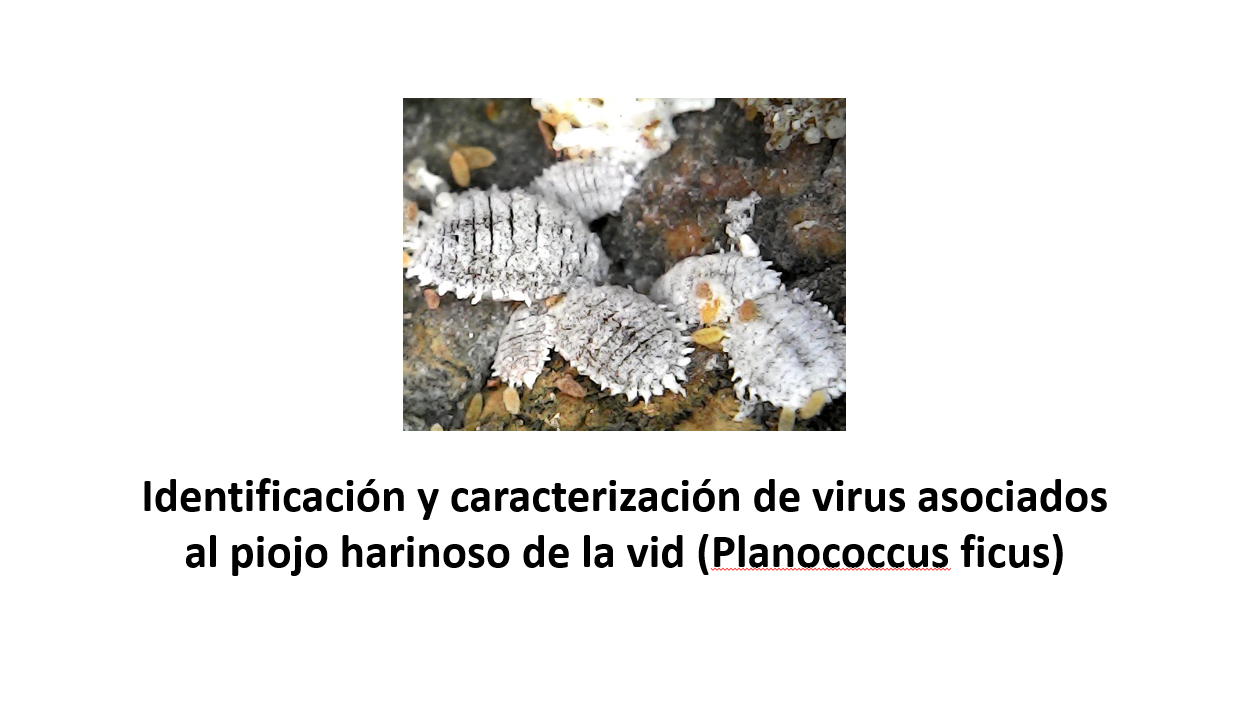
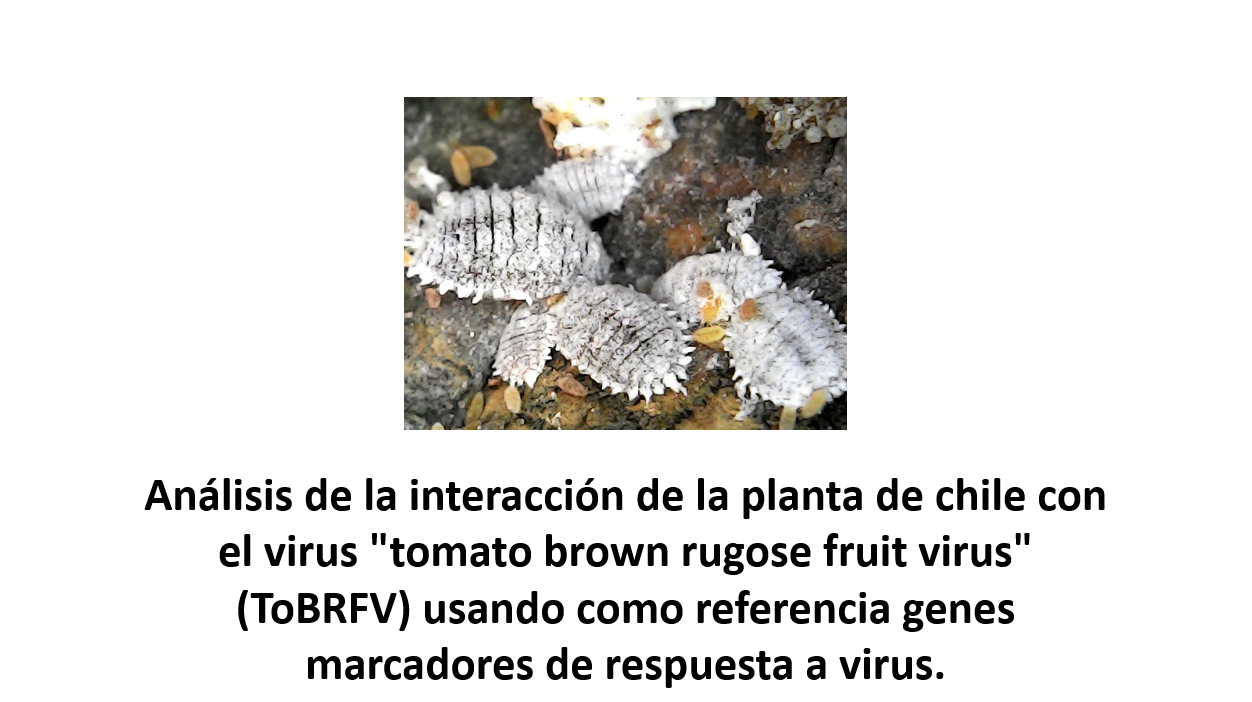
Add files via upload

diff --git a/index.html b/index.html
@@ -144,7 +144,7 @@
 
     <!-- Proyectos -->
     <section id="proyectos-recientes" class="proyectos-recientes seccion-clara d-flex flex-column">
-      <h2 class="seccion-titulo texto-negro">Proyectos recientes</h2>
+      <h2 class="seccion-titulo texto-negro">Proyectos de investigación recientes</h2>
       <!-- Galeria de Proyectos -->
       <div class="container text-center proyectos-contenedor">
         <div class="row">
@@ -155,7 +155,7 @@
               <div class="overlay">
                 <h4>Epidemiología de virus causantes de las enfermedades de enrollamiento de la hoja y mancha roja de la vid en Baja California. </h4>
                 <div class="iconos-contenedor">
-                  <a href="https://anabeleex-virolab-interfaz-virus-rurwnp.streamlit.app/" target="_blank" rel="noopener noreferrer">
+                  <a href="pr1.html" target="_blank" rel="noopener noreferrer">
                     <i class="bi bi-arrow-right-circle-fill"></i>
                   </a>
                 </div>
@@ -168,7 +168,7 @@
               <div class="overlay">
                 <h4>Determinación de vectores potenciales para el virus de la mancha roja de la vid en Baja California                </h4>
                 <div class="iconos-contenedor">
-                  <a href="https://anabeleex-virolab-interfaz-virus-rurwnp.streamlit.app/" target="_blank" rel="noopener noreferrer">
+                  <a href="pr2.html" target="_blank" rel="noopener noreferrer">
                     <i class="bi bi-arrow-right-circle-fill"></i>
                   </a>
                 </div>
@@ -179,9 +179,9 @@
             <div class="proyecto">
               <img src="imagenes/pr3.png" alt="Proyecto 3">
               <div class="overlay">
-                <h4>Identificación y caracterización de virus asociados al piojo harinoso de la vid (Planococcus ficus)                </h4>
+                <h4>Análisis de la interacción de la planta de chile con el virus "tomato brown rugose fruit virus" (ToBRFV) usando como referencia genes marcadores de respuesta a virus. </h4>
                 <div class="iconos-contenedor">
-                  <a href="https://anabeleex-virolab-interfaz-virus-rurwnp.streamlit.app/" target="_blank" rel="noopener noreferrer">
+                  <a href="pr3.html" target="_blank" rel="noopener noreferrer">
                     <i class="bi bi-arrow-right-circle-fill"></i>
                   </a>
                 </div>
@@ -192,9 +192,9 @@
             <div class="proyecto">
               <img src="imagenes/pr4.png" alt="Proyecto 4">
               <div class="overlay">
-                <h4>Estudio de respuestas moleculares a la infección por tobamovirus                </h4>
+                <h4>Diversidad morfológica y taxonómica de partículas virales asociadas a Planococcus ficus de Ensenada Baja California            </h4>
                 <div class="iconos-contenedor">
-                  <a href="https://anabeleex-virolab-interfaz-virus-rurwnp.streamlit.app/" target="_blank" rel="noopener noreferrer">
+                  <a href="pr4.html" target="_blank" rel="noopener noreferrer">
                     <i class="bi bi-arrow-right-circle-fill"></i>
                   </a>
                 </div>
@@ -207,7 +207,7 @@
               <div class="overlay">
                 <h4> Biodiagnóstico de virus de vid </h4>
                 <div class="iconos-contenedor">
-                  <a href="https://anabeleex-virolab-interfaz-virus-rurwnp.streamlit.app/" target="_blank" rel="noopener noreferrer">
+                  <a href="pr5.html" target="_blank" rel="noopener noreferrer">
                     <i class="bi bi-arrow-right-circle-fill"></i>
                   </a>
                 </div>
@@ -455,6 +455,7 @@
             <p class="testimonio-texto">Estudiante de la Lic. en Bioingeniería, Universidad Autónoma de Baja California (UABC). Practicante en el Laboratorio de Virología Agrícola del CICESE. </p>
           </div>
       </div>
+  
         <button class="carousel-control-prev" type="button" data-bs-target="#testimonios-carrusel" data-bs-slide="prev">
           <span class="carousel-control-prev-icon" aria-hidden="true"></span>
           <span class="visually-hidden">Anterior</span>
@@ -503,7 +504,7 @@
             <h2 class="seccion-titulo">Tesis del grupo</h2>
             <p class="seccion-texto">
               Repositorio de tesis </p>
-              <a href="https://cicese.repositorioinstitucional.mx/jspui/handle/1007/2" target="_blank" rel="noopener noreferrer">
+              <a href="tesis.html" target="_blank" rel="noopener noreferrer">
                 <button type="button" class="btn btn-info">
                Tesis             
                 <i class="bi bi-arrow-right-circle-fill"></i>

diff --git a/tesis.html b/tesis.html
@@ -1,0 +1,31 @@
+<!DOCTYPE html>
+<html>
+  <head>
+    <title>TESIS | VIROLAB </title>
+    <link rel="icon" type="image/x-icon" href="imagenes/cicese.png">
+    <link rel="stylesheet" href="te.css">
+
+  </head>
+  <body>
+    
+
+    <a href="index.html"> 
+        <img src="imagenes/cicese.png" width="15%" alt="Logo de la página web" class="topimg">
+    </a>
+
+<h1>TESIS DE MAESTRÍA CONCLUIDAS</h1>
+<h2>Odett Mariana Sandez Salas (2021). “Evaluación comparativa de RT-PCR punto final, RT-PCR en tiempo real y RT-LAMP en el diagnóstico del virus GLRaV-3 asociado al enrollamiento de la hoja en plantas de vid”. CICESE. Fecha de titulación: diciembre 8, 2021. <a href="https://cicese.repositorioinstitucional.mx/jspui/handle/1007/3646">https://cicese.repositorioinstitucional.mx/jspui/handle/1007/3646</a>
+</h2>
+<h2>José Luis Duarte de Jesús (2020). “Identificación de secuencias genómicas virales en el piojo harinoso de la vid (Planococcus ficus Signoret, 1875) presente en viñedos de Ensenada, Baja California”. CICESE. Fecha de titulación: diciembre 10, 2020. <a href="https://cicese.repositorioinstitucional.mx/jspui/handle/1007/3372">https://cicese.repositorioinstitucional.mx/jspui/handle/1007/3372</a></h2> 
+ 
+<h1>TESIS DE LICENCIATURA CONCLUIDAS</h1>
+<h2>Francisto Javier Benjamín Cerezo Limón (2022). “Caracterización inicial del genoma del virus del piojo harinoso de la vid Planococcus ficus-associated reovirus 1 mediante técnicas moleculares”. Universidad de Guadalajara. CUCBA. Fecha de titulación: julio 15, 2022.</h2>
+<h2>Tonya Ivette Delgado Silva (2022). “Caracterización inicial de virus de vid del género Marafivirus en Baja California, México”. Universidad Veracruzana. Fecha de titulación: febrero 24, 2022. Mención Honorífica.</h2> 
+<h2>Ana Karen Palacios Gutiérrez (2019). “Identificación de geminivirus aislados de vid en Baja California”. UNAM ENES León. Fecha de titulación: diciembre 5, 2019. Mención Honorífica. <a href="https://repositorio.unam.mx/contenidos?c=EeZM4G&q=ana_._karen_._guti%C3%A9rrez_._palacios&t=search_0&as=0&d=false&a=0&v=1">https://repositorio.unam.mx/contenidos?c=EeZM4G&q=ana_._karen_._guti%C3%A9rrez_._palacios&t=search_0&as=0&d=false&a=0&v=1</a></h2>
+<h2>Karendy Michell Monroy Corral (2019). “Presencia de virus transmitidos por piojo harinoso (Planococcus ficus) en viñedos de Baja California”. Instituto Tecnológico de Tepic. Fecha de titulación: septiembre 13, 2019.</h2>
+    
+<a href="index.html" class="boton">Regresar</a>
+
+
+</body>
+</html>

diff --git a/pr4.html b/pr4.html
@@ -1,0 +1,35 @@
+<!DOCTYPE html>
+<html>
+  <head>
+    <title>TESIS | VIROLAB </title>
+    <link rel="icon" type="image/x-icon" href="imagenes/cicese.png">
+    <link rel="stylesheet" href="te.css">
+
+  </head>
+  <body>
+    
+
+    <a href="index.html"> 
+        <img src="imagenes/cicese.png" width="15%" alt="Logo de la página web" class="topimg">
+    </a>
+
+<h1>Diversidad morfológica y taxonómica de partículas virales asociadas a Planococcus ficus de Ensenada Baja California</h1>
+<h2>La caracterización de las partículas virales representa un punto clave durante el estudio de los virus, nos permite dilucidar las estrategias que este organismo toma durante sus procesos biológicos (Qin et al., 2019), desde el reconocimiento de su hospedante hasta la salida de su progenie al mismo tiempo es necesaria para una correcta identificación y clasificación taxonómica (Zhao et al., 2021).
+  <br>
+  <br>
+  Diversos criterios morfológicos presentes en las partículas virales desde sí posee envoltura o no, sus dimensiones, la densidad de las partículas y la naturaleza de su genoma, estos y más criterios son utilizados por el comité internacional de taxonomía de virus (ICTV) para la correcta clasificación taxonómica de virus (Lefkowitz et al., 2018).
+  <br>
+  <br>
+  Previos trabajos llevados a cabo en CICESE (Martinez-Mercado et al., 2022) donde se inicia la caracterización del viroma presente en la especie Planococcus ficus una especie de importancia económica y cultural que infesta los viñedos de Baja California.
+  <br>
+  <br>
+  Con este trabajo se genera un punto de partida que nos brinda información acerca de las posibles partículas virales presentes en este organismo, cabe mencionar que el trabajo de Martínez Mercado solo se reportaron los virus de RNA lo cual implica que aún se desconoce los virus de DNA presentes en este viroma.
+  <br>
+  <br>
+  Partiendo de la  información previa en este trabajo se busca la obtención y caracterización de las partículas virales  presentes en Planococcus ficus de esta forma se busca determinar la diversidad morfológica y taxonómica de los virus presentes en el organismo de interés.</h2>
+  
+<a href="index.html" class="boton">Regresar</a>
+
+
+</body>
+</html>

diff --git a/pr3.html b/pr3.html
@@ -1,0 +1,23 @@
+<!DOCTYPE html>
+<html>
+  <head>
+    <title>TESIS | VIROLAB </title>
+    <link rel="icon" type="image/x-icon" href="imagenes/cicese.png">
+    <link rel="stylesheet" href="te.css">
+
+  </head>
+  <body>
+    
+
+    <a href="index.html"> 
+        <img src="imagenes/cicese.png" width="15%" alt="Logo de la página web" class="topimg">
+    </a>
+
+<h1>Análisis de la interacción de la planta de chile con el virus "tomato brown rugose fruit virus" (ToBRFV) usando como referencia genes marcadores de respuesta a virus</h1>
+<h2>El virus del fruto rugoso marrón del tomate (ToBRFV), es un tobamovirus que afecta plantas de la familia Solanaceae, principalmente tomate y chile, y tiene una distribución global. ToBRFV ha roto la resistencia conferida por el gen Tm-2² de tomate. La resistencia conferida por los genes L, en plantas de chile, se ha asociado a temperaturas superiores a los 30° C. En algunos estudios se han cribado un gran número de plantas para determinar los genes que provocan la ruptura de la resistencia. A pesar de ello, se hace necesario un análisis integral que permita comprender mejor la interacción planta-patógeno. El propósito de este proyecto es comprender la respuesta de la planta de chile (Capsicum annuum) a la infección con el virus ToBRFV utilizando genes de solanáceas estudiados en respuesta a diferentes virus de RNA como marcadores de la respuesta viral bajo condiciones normales y en incremento de temperatura. Este proyecto contribuirá a comprender mejor la interacción de la planta de chile con ToBRFV, lo cual constituye una ventaja para el diseño de estrategias de manejo integrado de plagas, el desarrollo de nuevas técnicas de control de patógenos y nuevas dianas de estudio para la ingeniería genética</h2>
+ 
+<a href="index.html" class="boton">Regresar</a>
+
+
+</body>
+</html>

diff --git a/pr2.html b/pr2.html
@@ -1,0 +1,24 @@
+<!DOCTYPE html>
+<html>
+  <head>
+    <title>TESIS | VIROLAB </title>
+    <link rel="icon" type="image/x-icon" href="imagenes/cicese.png">
+    <link rel="stylesheet" href="te.css">
+
+  </head>
+  <body>
+    
+
+    <a href="index.html"> 
+        <img src="imagenes/cicese.png" width="15%" alt="Logo de la página web" class="topimg">
+    </a>
+
+<h1>Determinación de vectores potenciales para el virus de la mancha roja de la vid en Baja California</h1>
+<h2>
+  El virus de la mancha roja de la vid (por sus siglas en inglés GRBV) es el agente causal de la mancha roja de la vid. Esta enfermedad reduce el rendimiento en la producción de vino y provoca grandes pérdidas económicas. Aunque la fuente principal de transmisión del GRBV es la propagación vegetativa por injertos infectados; hay evidencias de propagación secundaria. Actualmente, se ha demostrado que el periquito tricornudo de la alfalfa (Spissitilus festinus) es un vector de importancia epidemiológica para el GRBV. Sin embargo, investigaciones sugieren que otros hemípteros pudieran fungir como vectores potenciales de este virus. Baja California, es la región vitivinícola más importante de México. Aunque está diagnosticada la presencia de GRBV en esta región, no existen reportes de la circulación de Spissitilus festinus u otros vectores. Este proyecto tiene como propósito identificar posibles vectores potenciales de GRBV en Ensenada, detectando el virus por qPCR en hemípteros recolectados en lugares de interés. Los insectos serán identificados por caracteres morfológicos o por técnicas de biología molecular. El trabajo además sentará las bases y experimentos iniciales para el montaje de ensayos de transmisión en invernadero.   
+</h2>
+  <a href="index.html" class="boton">Regresar</a>
+
+
+</body>
+</html>

diff --git a/pr1.html b/pr1.html
@@ -1,0 +1,23 @@
+<!DOCTYPE html>
+<html>
+  <head>
+    <title>Proyecto 1 | VIROLAB </title>
+    <link rel="icon" type="image/x-icon" href="imagenes/cicese.png">
+    <link rel="stylesheet" href="te.css">
+
+  </head>
+  <body>
+    
+
+    <a href="index.html"> 
+        <img src="imagenes/cicese.png" width="15%" alt="Logo de la página web" class="topimg">
+    </a>
+
+<h1>Epidemiología de virus causantes de las enfermedades de enrollamiento de la hoja y mancha roja de la vid en Baja California</h1>
+<h2>La enfermedad del enrollamiento de la hoja de la vid o GLD (por sus siglas en inglés) es la enfermedad viral más extendida y el padecimiento viral de mayor impacto económico en vid. Esta enfermedad perjudica el crecimiento general y el vigor de las vides, así como el rendimiento de las bayas; con reducciones del aprovechamiento entorno al 50% a nivel mundial. El agente causal es el complejo de virus GLRaVs, siendo el más destructivo y extendido a nivel mundial GLRaV -3. Adicionalmente, las plantas se pueden infectar por otros virus, por ejemplo, el GRBV agente causal de la enfermedad de la mancha roja o RB (por sus siglas en inglés), que rápidamente se ha extendido en América generando grandes pérdidas económicas. GLD y RB comparten la sintomatología que se expresa en la misma temporada del año (otoño) y están presentes en Baja California. Actualmente se está trabajando en contextualizar estas enfermedades en Baja California, intentando describir la dispersión de estas enfermedades, comportamiento a través del tiempo y agentes causales. Así como asociaciones con vectores y otros factores abióticos.
+</h2>
+<a href="index.html" class="boton">Regresar</a>
+
+
+</body>
+</html>

diff --git a/te.css b/te.css
@@ -1,0 +1,57 @@
+body {
+    background: white;
+    text-align: center;
+    margin: 5%;
+  }
+  p {
+    color: blueviolet;
+    font-size: 20px;
+  }
+  h1 {
+    color: darkblue;
+    text-align: center;
+    font-family: sans-serif;
+    font-weight: bold;
+    font-size: 40px;
+  
+  }
+  h2 {
+    color: black;
+    text-align: justify;
+    font-family: sans-serif;
+    font-weight: bold;
+    font-size: 20px;
+  
+  }
+  img{
+    display: block;
+    margin-left: auto;
+    margin-right: auto;
+  }
+
+.boton {
+    box-shadow: 3px 4px 6px 0px #1564ad;
+	background:linear-gradient(to bottom, #346ca3 5%, #2a74bf 100%);
+	background-color:#346ca3;
+	border-radius:5px;
+	border:1px solid #2b73ba;
+    display:inline-block;
+	cursor:pointer;
+	color:#ffffff;
+	font-family:Arial;
+	font-size:18px;
+	font-weight:bold;
+	padding:12px 44px;
+	text-decoration:none;
+	text-shadow:0px 1px 0px #528ecc;
+}
+.boton:hover {
+	background:linear-gradient(to bottom, #2a74bf 5%, #346ca3 100%);
+	background-color:#2a74bf;
+}
+.boton:active {
+	position:relative;
+	top:1px;
+}
+
+  

diff --git a/pr5.html b/pr5.html
@@ -1,0 +1,22 @@
+<!DOCTYPE html>
+<html>
+  <head>
+    <title>TESIS | VIROLAB </title>
+    <link rel="icon" type="image/x-icon" href="imagenes/cicese.png">
+    <link rel="stylesheet" href="te.css">
+
+  </head>
+  <body>
+    
+
+    <a href="index.html"> 
+        <img src="imagenes/cicese.png" width="15%" alt="Logo de la página web" class="topimg">
+    </a>
+
+<h1>Biodiagnóstico de virus de vid</h1>
+<h2>Proximamente</h2>
+
+
+
+</body>
+</html>
